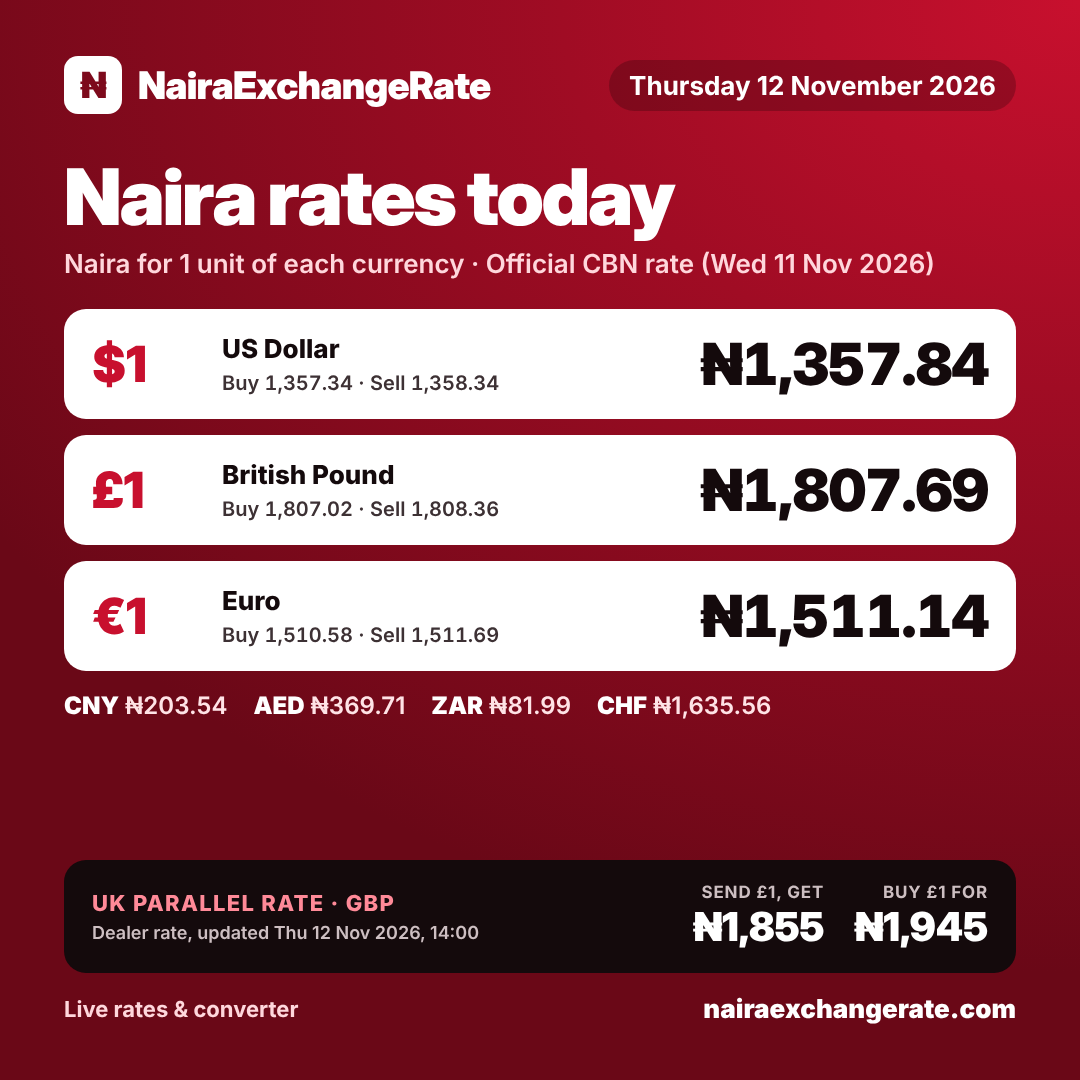
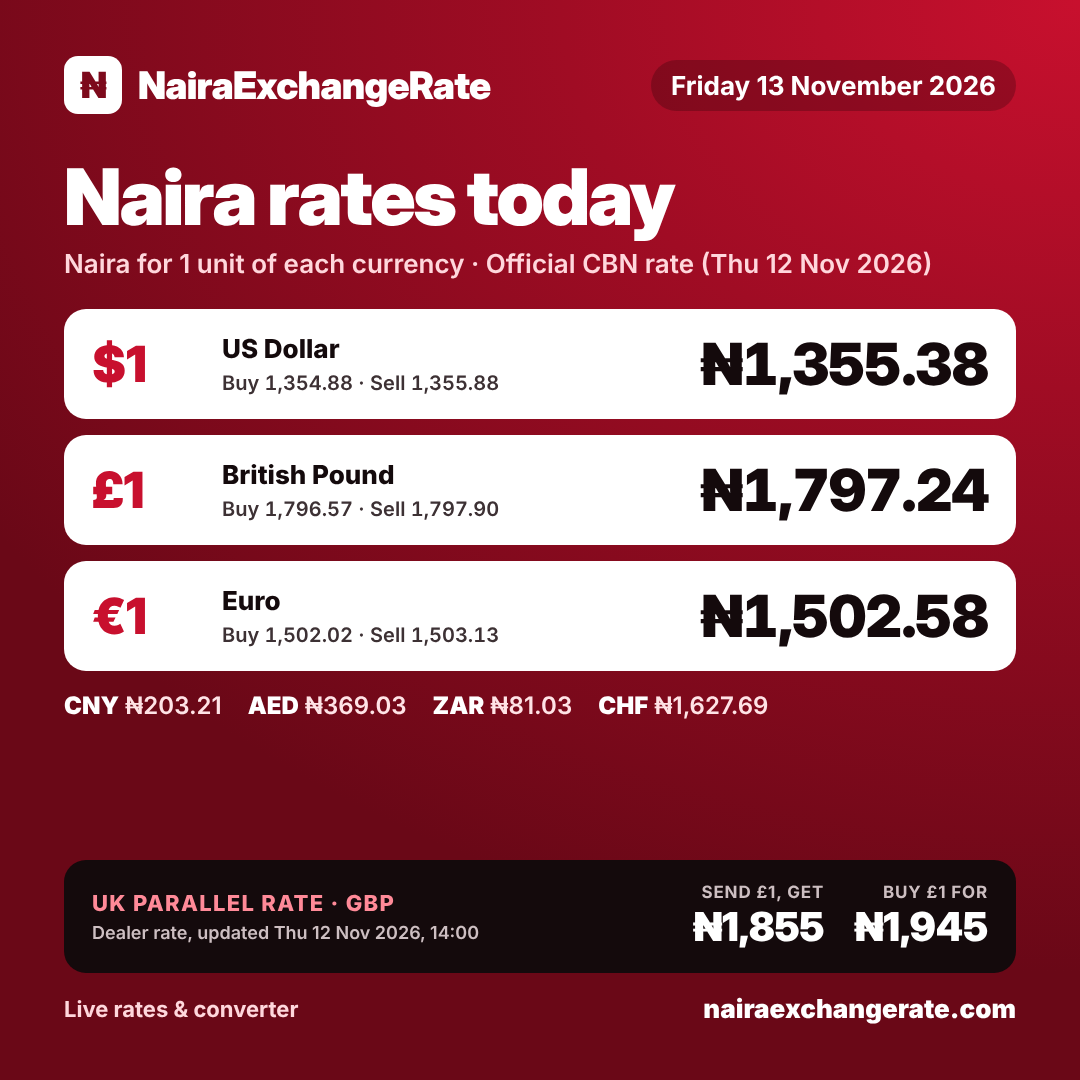
Daily update 2026-11-13
Claude-Session: https://claude.ai/code/session_01NfXuJvDFHzKw1wwEkxugAK

diff --git a/index.html b/index.html
@@ -343,61 +343,89 @@ footer .wrap{padding-block:22px 34px;font-size:.84rem;color:var(--muted);display
     }
   ],
   "cbn": {
-    "date": "2026-11-11",
+    "date": "2026-11-12",
     "rates": {
       "xof": {
-        "buy": 2.2885,
-        "middle": 2.2985,
-        "sell": 2.3085
+        "buy": 2.2833,
+        "middle": 2.2933,
+        "sell": 2.3033
       },
       "cny": {
-        "buy": 203.4655,
-        "middle": 203.5404,
-        "sell": 203.6154
+        "buy": 203.1337,
+        "middle": 203.2087,
+        "sell": 203.2836
       },
       "eur": {
-        "buy": 1510.582,
-        "middle": 1511.1385,
-        "sell": 1511.6949
+        "buy": 1502.0216,
+        "middle": 1502.5759,
+        "sell": 1503.1302
       },
       "jpy": {
-        "buy": 8.5222,
-        "middle": 8.5254,
-        "sell": 8.5285
+        "buy": 8.4839,
+        "middle": 8.487,
+        "sell": 8.4902
       },
       "sar": {
-        "buy": 361.6387,
-        "middle": 361.7719,
-        "sell": 361.9051
+        "buy": 361.0033,
+        "middle": 361.1365,
+        "sell": 361.2698
       },
       "zar": {
-        "buy": 81.9624,
-        "middle": 81.9926,
-        "sell": 82.0228
+        "buy": 80.9963,
+        "middle": 81.0262,
+        "sell": 81.0561
       },
       "chf": {
-        "buy": 1634.9536,
-        "middle": 1635.5559,
-        "sell": 1636.1582
+        "buy": 1627.0944,
+        "middle": 1627.6948,
+        "sell": 1628.2953
       },
       "gbp": {
-        "buy": 1807.0247,
-        "middle": 1807.6904,
-        "sell": 1808.356
+        "buy": 1796.5729,
+        "middle": 1797.2359,
+        "sell": 1797.8989
       },
       "usd": {
-        "buy": 1357.3385,
-        "middle": 1357.8385,
-        "sell": 1358.3385
+        "buy": 1354.8815,
+        "middle": 1355.3815,
+        "sell": 1355.8815
       },
       "aed": {
-        "buy": 369.5751,
-        "middle": 369.7112,
-        "sell": 369.8474
+        "buy": 368.8961,
+        "middle": 369.0322,
+        "sell": 369.1683
       }
     }
   },
   "news": [
+    {
+      "source": "THISDAY",
+      "title": "CBN: Macroeconomic Stability Critical to Strengthening Nigeria's Trade Competitiveness",
+      "summary": "A CBN official told the Lagos trade fair that inflation has eased to 14.63%, down from a 34.8% peak, helping exporters compete.",
+      "url": "https://www.thisdaylive.com/2026/11/13/cbn-macroeconomic-stability-critical-to-strengthening-nigerias-trade-competitiveness/",
+      "date": "2026-11-13"
+    },
+    {
+      "source": "Legit.ng",
+      "title": "NGX Rebounds As Seplat, MTN Drive N330bn Market Gain",
+      "summary": "Nigerian stocks gained about N328bn as the All-Share Index rose 0.20% to 252,366.80.",
+      "url": "https://www.legit.ng/business-economy/capital-market/1741056-ngx-rebounds-seplat-mtnn-drive-n330bn-market-gain/",
+      "date": "2026-11-12"
+    },
+    {
+      "source": "BusinessDay",
+      "title": "Dangote refinery consortium marketers cut petrol gantry price to N1,215/litre",
+      "summary": "Petrol's gantry price at the Dangote marketers' consortium fell by N25 to N1,215 per litre.",
+      "url": "https://businessday.ng/energy/article/dangote-refinery-consortium-marketers-cut-petrol-gantry-price-to-n1215-litre/",
+      "date": "2026-11-12"
+    },
+    {
+      "source": "THISDAY",
+      "title": "N2.45tn Liquidity Inflow Expected in Banking System as DMO Plans N800bn T-bills",
+      "summary": "Banks expect about N2.45tn in inflows this week, mostly maturing OMO bills, as the DMO offers N800bn in Treasury bills.",
+      "url": "https://www.thisdaylive.com/2026/11/11/n2-45tn-liquidity-inflow-expected-in-banking-system-as-dmo-plans-n800bn-t-bills/",
+      "date": "2026-11-11"
+    },
     {
       "source": "Business Post",
       "title": "Dangote Refinery IPO Attracts N5.85trn Bids from 3.8 million Subscribers",
@@ -411,34 +439,6 @@ footer .wrap{padding-block:22px 34px;font-size:.84rem;color:var(--muted);display
       "summary": "S&P says a firmer naira and easing inflation help Nigeria, but expects interest costs to eat 22.2% of government revenue in 2026.",
       "url": "https://businessday.ng/business-economy/article/nigerias-economic-recovery-faces-fresh-test-from-rising-energy-costs-expensive-financing-sp/",
       "date": "2026-11-11"
-    },
-    {
-      "source": "Vanguard",
-      "title": "Dollar to Naira exchange rate today, November 11, 2026",
-      "summary": "The naira traded around ₦1,419/$ on the parallel market against about ₦1,350 at the official window, a gap of roughly ₦69.",
-      "url": "https://www.vanguardngr.com/2026/11/dollar-to-naira-exchange-rate-today-november-11-2026/",
-      "date": "2026-11-11"
-    },
-    {
-      "source": "THEWILL",
-      "title": "NGX Sheds ₦293bn As All-Share Index Declines 0.18 Percent",
-      "summary": "The NGX All-Share Index slipped 0.18% to 251,861.24, trimming market value by ₦293 billion to ₦163.53 trillion.",
-      "url": "https://thewillnews.com/ngx-sheds-%E2%82%A6293bn-as-all-share-index-declines-0-18-percent/",
-      "date": "2026-11-11"
-    },
-    {
-      "source": "Blueprint",
-      "title": "Senate passes bill to bring big fintechs, non-bank financial institutions under CBN regulation",
-      "summary": "The Senate passed a BOFIA amendment letting the CBN label large fintechs as systemically important and supervise them more closely.",
-      "url": "https://blueprint.ng/senate-passes-bill-to-bring-big-fintechs-non-bank-financial-institutions-under-cbn-regulation/",
-      "date": "2026-11-10"
-    },
-    {
-      "source": "Legit.ng",
-      "title": "FCCPC Warns Dangote, Petrol Marketers as New Fuel Prices Emerge in Lagos, Abuja",
-      "summary": "Petrol now sells for about ₦1,325–₦1,420 a litre in Lagos and Abuja as the competition regulator warns Dangote and marketers.",
-      "url": "https://www.legit.ng/business-economy/energy/1740600-fccpc-warns-dangote-petrol-marketers-fuel-prices-emerge-lagos-abuja/",
-      "date": "2026-11-10"
     }
   ],
   "whatsappChannel": "https://whatsapp.com/channel/0029VbEJwXxCnA7nV3kcN73I"
